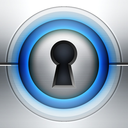
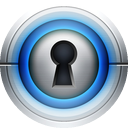
Iconbar and minor changes
Iconbar blinks while working and other minor changes...

diff --git a/background.js b/background.js
@@ -40,7 +40,6 @@ chrome.browserAction.onClicked.addListener(function() {
 		chrome.browserAction.setIcon({path:"icon-48r.png"});
 	}
 	setState();
-	save_options();
 });
 chrome.tabs.onUpdated.addListener(function(tabId, changeInfo, tab) {
 	isEnable();
@@ -81,5 +80,10 @@ chrome.tabs.onUpdated.addListener(function(tabId, changeInfo, tab) {
         if (stripped != tab.url) {
             chrome.tabs.update(tab.id, {url: stripped});
         }
+		chrome.browserAction.setIcon({path:"icon-48g.png"});
+		setTimeout(function() {
+			chrome.browserAction.setIcon({path:"icon-48.png"});
+		}, 2500);
+		
 	}
 });
